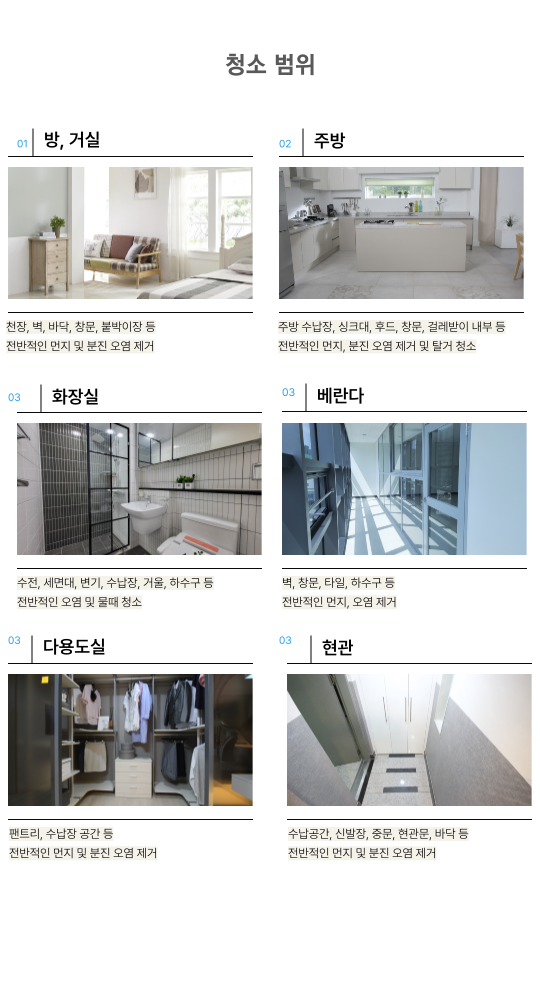
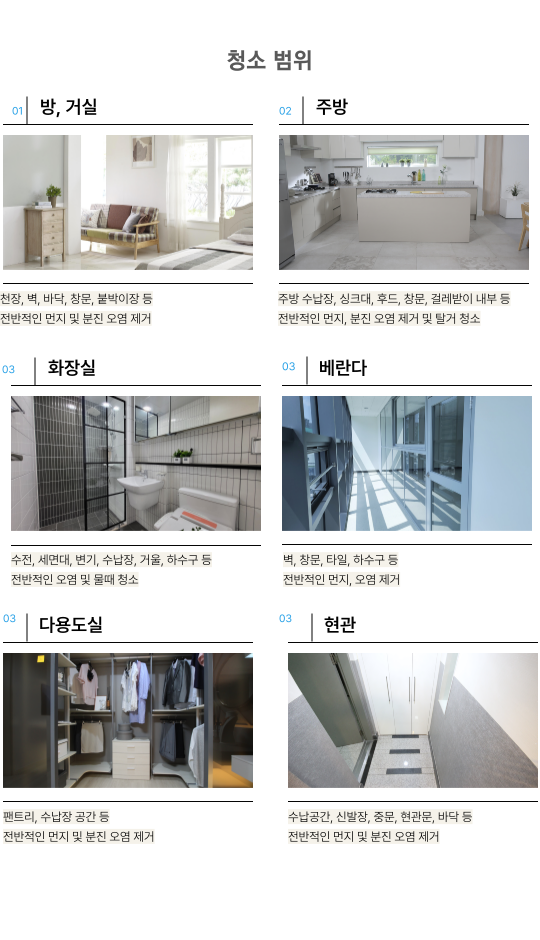
입주 거주 청소 이미지 확대 및 전화상담 버튼 중앙으로 수정

Changed region(s): [[0.0, 0.0309, 1.0, 0.8947]]

diff --git a/src/pages/PageOne.jsx b/src/pages/PageOne.jsx
@@ -41,7 +41,7 @@ const Container2 = styled.div`
   justify-content: center;
   background-color: #ffffff;
   @media (max-width: 768px) {
-    height: 70vh;
+    height: 75vh;
   }
 `;
 const ContainerM = styled.div`
@@ -53,7 +53,7 @@ const ContainerM = styled.div`
   justify-content: center;
   background-color: #ffffff;
   @media (max-width: 768px) {
-    height: 30vh;
+    height: 35vh;
   }
 `;
 
@@ -65,7 +65,7 @@ const ImageBox = styled.div`
   background-repeat: no-repeat;
   background-position: center;
   @media (max-width: 768px) {
-    width: 90%;
+    width: 100%;
     height: 100%;
   }
 `;

diff --git a/src/pages/CommonForm.jsx b/src/pages/CommonForm.jsx
@@ -70,8 +70,9 @@ const MenuButton = styled.button`
 const CallButton = styled.a`
   display: none;
   position: fixed;
-  bottom: 20px;
-  right: 20px;
+  bottom: 25px;
+  left: 50%; /* 가운데 정렬 */
+  transform: translateX(-50%); /* 정확한 중앙 정렬 */
   background-color: #2c57e4;
   color: white;
   font-size: 18px;
